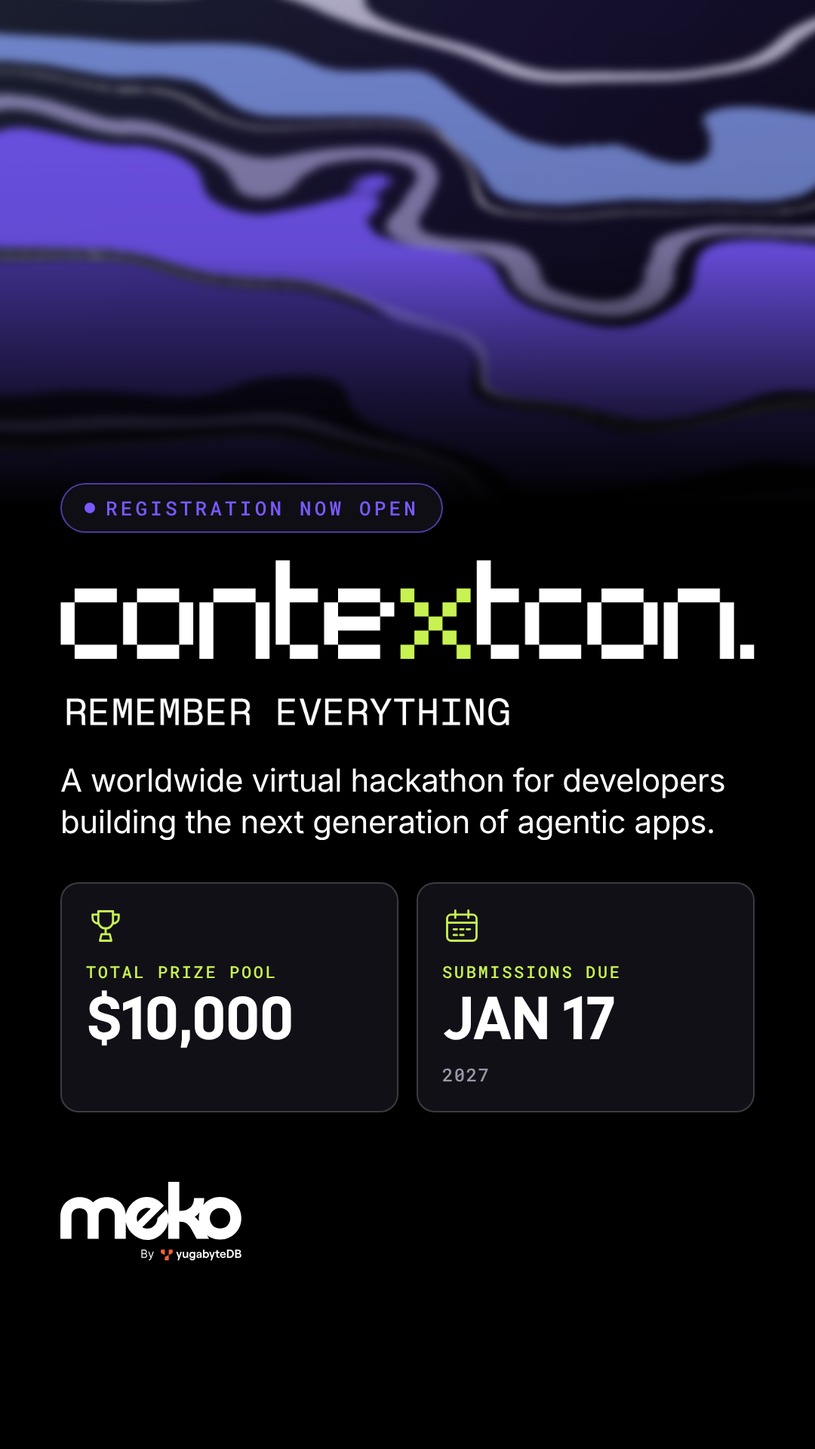
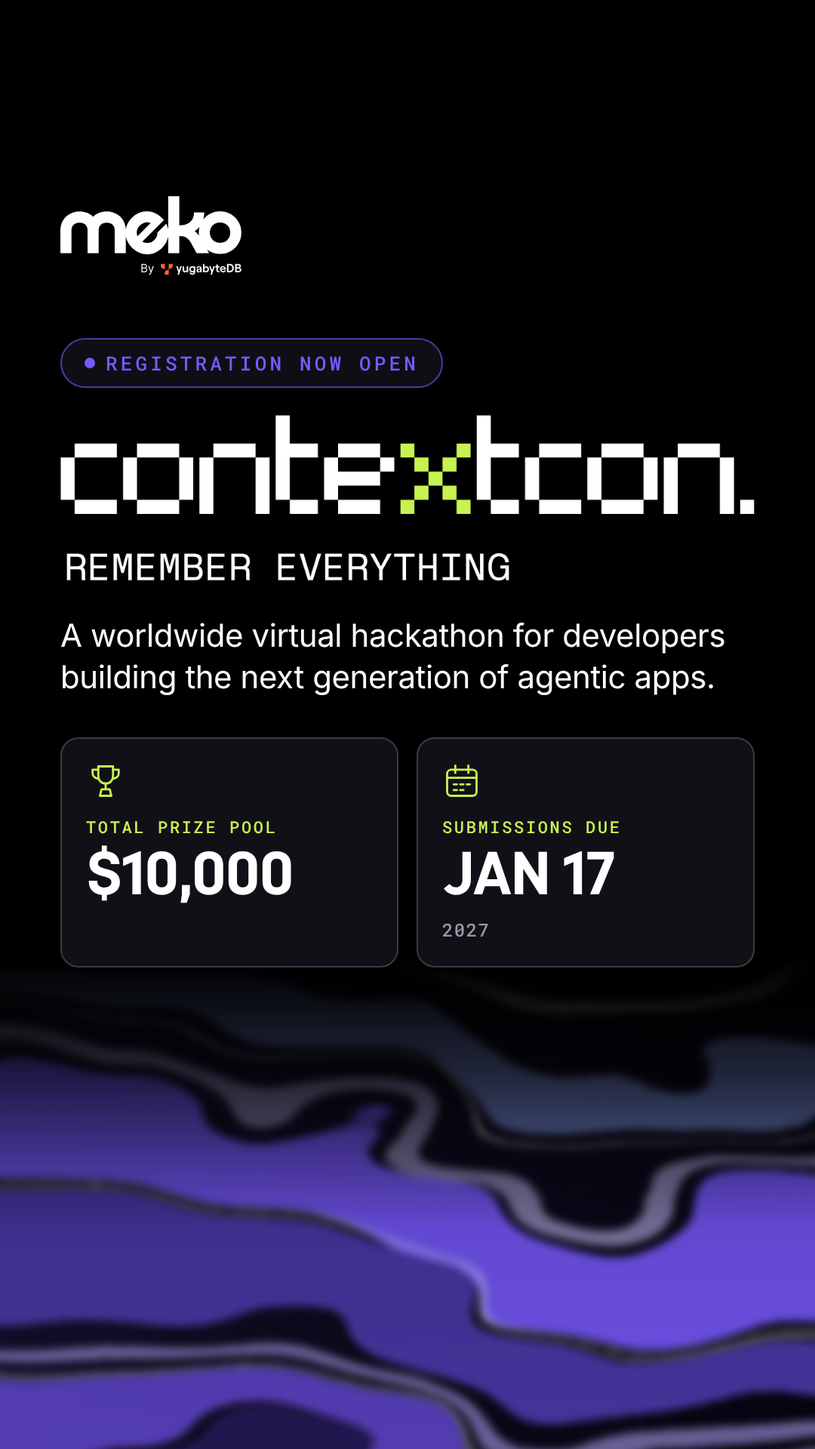
Instagram story: Meko lockup to top, content raised, texture to bottom
Claude-Session: https://claude.ai/code/session_011WvSfbuXTc2R9BKwTF66Kj

diff --git a/banners/contextcon-insta-story-1080x1920.html b/banners/contextcon-insta-story-1080x1920.html
@@ -19,10 +19,10 @@
 html,body{margin:0;background:var(--ground)}
 body{min-height:100vh;display:grid;place-items:center;-webkit-font-smoothing:antialiased}
 .story{position:relative;width:1080px;height:1920px;overflow:hidden;background:var(--ground);font-family:var(--sans);color:var(--text)}
-.tex{position:absolute;left:0;top:0;width:1080px;height:1120px;display:block}
+.tex{position:absolute;left:0;bottom:0;width:1080px;height:1120px;display:block}
 /* content sits inside Instagram's safe area (clear of top ~250px and bottom ~250px UI) */
-.content{position:absolute;left:80px;right:80px;top:640px;bottom:250px;display:flex;flex-direction:column;align-items:flex-start}
-.pill{margin:0;font-family:var(--mono);font-size:26px;font-weight:500;letter-spacing:.16em;text-transform:uppercase;color:var(--purple);
+.content{position:absolute;left:80px;right:80px;top:260px;bottom:250px;display:flex;flex-direction:column;align-items:flex-start}
+.pill{margin:84px 0 0;font-family:var(--mono);font-size:26px;font-weight:500;letter-spacing:.16em;text-transform:uppercase;color:var(--purple);
   background:rgba(18,16,23,.85);border:2px solid rgba(120,89,254,.6);border-radius:999px;padding:14px 30px;display:flex;align-items:center;gap:14px}
 .pill::before{content:'';width:14px;height:14px;border-radius:50%;background:var(--purple)}
 h1{margin:36px 0 0;width:920px}
@@ -36,13 +36,13 @@ h1 img{display:block;width:100%;height:auto}
 .stat.prize .v{font-size:84px}
 .stat.due .v{font-size:84px}
 .stat .y{display:block;margin-top:10px;font-family:var(--mono);font-size:24px;letter-spacing:.06em;color:var(--muted)}
-.meko{margin-top:auto;padding-top:48px;width:240px}
+.meko{width:240px}
 .meko svg{display:block;width:100%;height:auto}
 </style>
 </head>
 <body>
 <main class="story" aria-label="ContextCon: Remember everything — registration now open">
-  <svg class="tex" viewBox="700 -120 1300 1348" preserveAspectRatio="xMidYMid slice" aria-hidden="true">
+  <svg class="tex" viewBox="700 -640 1300 1348" preserveAspectRatio="xMidYMid slice" aria-hidden="true">
     <defs>
       <linearGradient id="g135" x1="0" y1="0" x2="1" y2="1">
         <stop offset="0" stop-color="#8ea8ff"/><stop offset=".35" stop-color="#7859fe"/>
@@ -54,15 +54,15 @@ h1 img{display:block;width:100%;height:auto}
         <feGaussianBlur in="d" stdDeviation="7"/>
       </filter>
       <linearGradient id="vfade" x1="0" y1="0" x2="0" y2="1">
-        <stop offset="0" stop-color="#fff" stop-opacity="1"/>
-        <stop offset=".3" stop-color="#fff" stop-opacity=".9"/>
-        <stop offset=".48" stop-color="#fff" stop-opacity=".3"/>
-        <stop offset=".6" stop-color="#fff" stop-opacity="0"/>
+        <stop offset=".42" stop-color="#fff" stop-opacity="0"/>
+        <stop offset=".56" stop-color="#fff" stop-opacity=".3"/>
+        <stop offset=".74" stop-color="#fff" stop-opacity=".9"/>
+        <stop offset="1" stop-color="#fff" stop-opacity="1"/>
       </linearGradient>
-      <mask id="vm"><rect x="700" y="-120" width="1300" height="1348" fill="url(#vfade)"/></mask>
+      <mask id="vm"><rect x="700" y="-640" width="1300" height="1348" fill="url(#vfade)"/></mask>
     </defs>
     <g mask="url(#vm)">
-      <rect x="700" y="-120" width="1300" height="1348" fill="url(#g135)" opacity=".18"/>
+      <rect x="700" y="-640" width="1300" height="1348" fill="url(#g135)" opacity=".18"/>
       <g filter="url(#marble)">
         <path d="M240 -240 C680 -130 1160 -290 1380 -100 S1760 0 2140 -80" stroke="#e9e6ff" stroke-width="30" fill="none" opacity="0.7"/>
 <path d="M240 -80 C680 30 1160 -130 1380 60 S1760 160 2140 80" stroke="#8ea8ff" stroke-width="90" fill="none" opacity="0.75"/>
@@ -83,6 +83,7 @@ h1 img{display:block;width:100%;height:auto}
   </svg>
 
   <div class="content">
+    <div class="meko"><svg xmlns="http://www.w3.org/2000/svg" role="img" aria-label="Meko by YugabyteDB" viewBox="0 0 943.4 409.61"><path fill="#ffffff" d="M 881.02 210.62 C 878.36 217.12 874.66 222.82 869.94 227.69 C 865.21 232.55 859.59 236.33 853.08 238.99 C 846.58 241.65 839.18 242.98 831.79 242.98 C 824.41 242.98 817.46 241.65 810.95 238.99 C 804.45 236.33 798.77 232.55 793.88 227.69 C 789.02 222.82 785.24 217.12 782.58 210.62 C 779.93 204.12 778.59 197.18 778.59 189.78 C 778.59 182.09 779.93 174.99 782.58 168.49 C 785.24 161.98 789.02 156.36 793.88 151.64 C 798.75 146.91 804.45 143.21 810.95 140.55 C 817.46 137.89 824.39 136.56 831.79 136.56 C 847.17 136.56 859.88 141.59 869.94 151.64 C 879.98 161.7 885.01 174.42 885.01 189.78 C 885.01 197.16 883.68 204.12 881.02 210.62 M 700.15 182.27 C 709.77 175.62 718.07 167.79 725.09 158.77 C 722.32 168.58 720.94 178.91 720.94 189.78 C 720.94 195.04 721.28 200.22 721.96 205.27 C 715.19 196.5 707.91 188.84 700.15 182.27 M 401.55 208.27 C 397.78 198.64 396.95 188.92 399.04 179.09 C 401.12 169.26 406.15 160.37 414.09 152.43 C 422.04 144.48 430.98 139.42 440.9 137.23 C 450.84 135.04 460.61 135.82 470.22 139.58 Z M 934.22 146.1 C 928.61 132.66 920.76 120.91 910.72 110.85 C 900.68 100.81 888.93 92.98 875.47 87.35 C 862.01 81.75 847.17 78.93 831.79 78.93 C 816.41 78.93 801.93 81.75 788.33 87.35 C 774.73 92.96 762.98 100.81 753.08 110.85 C 750.05 113.94 747.19 117.2 744.51 120.62 C 747.77 109.36 749.38 97.23 749.38 84.26 L 696.16 84.26 C 696.16 105.55 689.66 122.12 676.65 133.94 C 663.65 145.76 645.3 151.67 621.66 151.67 L 619.45 151.67 L 619.45 0 L 561.79 0 L 561.79 173 C 559.89 162.99 556.46 153.22 551.46 143.64 L 505.36 189.74 C 505.79 203.95 500.46 216.6 489.37 227.69 C 480.59 236.45 470.51 241.65 459.12 243.21 C 447.71 244.79 436.91 242.74 426.65 237.1 L 538.92 124.83 C 535.37 120.03 532.02 116.06 528.88 112.92 C 517.6 101.62 505.18 93.1 491.71 87.35 C 478.25 81.62 464.54 78.69 450.64 78.59 C 436.75 78.48 423.11 81.26 409.73 86.9 C 396.32 92.54 384 101.01 372.72 112.29 C 361.42 123.59 352.97 135.91 347.31 149.3 C 344.2 156.67 341.98 164.11 340.61 171.63 C 339.96 159.95 337.59 149.01 333.48 138.81 C 328.59 126.7 321.73 116.28 312.85 107.55 C 303.98 98.83 293.48 92.04 281.36 87.16 C 269.23 82.29 255.63 79.84 241.44 79.84 C 227.24 79.84 214.09 82.21 201.96 86.94 C 189.84 91.68 179.34 98.33 170.47 106.9 C 161.88 98.33 151.55 91.66 139.43 86.94 C 127.3 82.21 114.45 79.84 99.95 79.84 C 85.45 79.84 72.16 82.29 60.03 87.16 C 47.9 92.02 37.41 98.83 28.54 107.55 C 19.68 116.26 12.73 126.68 7.7 138.81 C 2.66 150.93 0.15 164.09 0.15 178.28 L 0.15 297.13 L 57.8 297.13 L 57.8 178.71 C 57.8 166.3 61.65 156.32 69.34 148.78 C 77.03 141.25 87.21 137.48 99.93 137.48 L 99.99 137.48 C 112.71 137.48 122.84 141.25 130.37 148.78 C 137.89 156.31 141.67 166.3 141.67 178.71 L 141.67 297.13 L 199.32 297.13 L 199.32 178.71 C 199.32 166.3 203.17 156.32 210.86 148.78 C 218.55 141.25 228.73 137.48 241.45 137.48 C 254.18 137.48 264.31 141.25 271.84 148.78 C 279.36 156.31 283.14 166.3 283.14 178.71 L 283.14 297.13 L 340.79 297.13 L 340.79 208.61 C 342.25 216.24 344.58 223.79 347.78 231.3 C 353.53 244.79 362.04 257.17 373.33 268.47 L 373.36 268.47 C 384.86 279.97 397.35 288.59 410.84 294.32 C 424.32 300.09 437.95 302.95 451.75 302.95 C 465.55 302.95 479.15 300.14 492.52 294.49 C 505.92 288.84 518.25 280.38 529.53 269.08 C 538.31 260.31 545.46 250.74 551.02 240.39 C 556.24 230.62 559.84 220.62 561.79 210.39 L 561.79 297.11 L 619.45 297.11 L 619.45 207.08 L 621.66 207.08 C 635.55 207.08 647.3 210.26 656.91 216.62 C 666.52 223 675.16 233.26 682.85 247.45 L 709.91 297.13 L 774.66 297.13 L 764.47 278.35 C 771.66 283.76 779.62 288.29 788.33 291.99 C 801.93 297.76 816.13 300.63 831.79 300.63 C 847.46 300.63 862.01 297.76 875.47 291.99 C 888.91 286.22 900.66 278.41 910.72 268.49 C 920.76 258.59 928.59 246.84 934.22 233.24 C 939.82 219.64 942.64 205.45 942.64 189.78 C 942.64 174.11 939.82 159.56 934.22 146.1 "/><path fill="#ffffff" d="M 926.7 389.04 L 918.33 389.04 L 918.33 376.73 L 926.7 376.73 C 932.21 376.73 934.87 379 934.87 382.93 C 934.87 386.88 932.21 389.04 926.7 389.04 M 918.33 359.5 L 926.3 359.5 C 930.73 359.5 932.9 361.38 932.9 364.72 C 932.9 368.07 930.73 369.84 926.4 369.84 L 918.33 369.84 Z M 935.26 372.6 C 937.92 371.22 940.48 368.17 940.48 364.04 C 940.48 356.95 934.87 353.01 926.99 353.01 L 910.26 353.01 L 910.26 396.12 L 927.59 396.12 C 936.64 396.12 942.64 391.4 942.64 383.32 C 942.64 377.62 939.3 374.07 935.27 372.59 Z M 935.26 372.6 "/><path fill="#ffffff" d="M 881.13 389.04 L 875.91 389.04 L 875.91 360 L 881.13 360 C 888.51 360 895.59 363.84 895.59 374.57 C 895.59 385.3 888.51 389.04 881.13 389.04 Z M 881.71 353.01 L 867.74 353.01 L 867.74 396.12 L 881.71 396.12 C 893.73 396.12 903.87 388.94 903.87 374.57 C 903.87 360.2 893.73 353.01 881.71 353.01 Z M 881.71 353.01 "/><path fill="#ffffff" d="M 846.67 370.24 C 851.2 370.24 853.85 373.19 854.25 377.13 L 838.89 377.13 C 839.68 372.5 842.44 370.24 846.67 370.24 Z M 854.54 385.79 C 853.76 388.74 851.2 390.32 847.26 390.32 C 842.54 390.32 839.29 387.17 838.7 382.15 L 861.63 382.15 C 861.76 381.3 861.82 380.45 861.82 379.59 C 861.82 372.11 857.1 364.53 846.67 364.53 C 836.23 364.53 831.41 372.3 831.41 380.47 C 831.41 388.64 837.12 396.62 847.26 396.62 C 854.94 396.62 860.74 392.39 861.92 385.79 Z M 854.54 385.79 "/><path fill="#ffffff" d="M 828.86 371.42 L 828.86 365.02 L 820.29 365.02 L 820.29 355.66 L 812.71 355.66 L 812.71 365.02 L 806.61 365.02 L 806.61 371.42 L 812.71 371.42 L 812.71 385.3 C 812.71 392.19 817.14 396.12 823.93 396.12 L 828.86 396.12 L 828.86 389.73 L 824.72 389.73 C 821.97 389.73 820.29 388.15 820.29 385 L 820.29 371.42 Z M 828.86 371.42 "/><path fill="#ffffff" d="M 797.16 365.02 L 790.07 386.38 L 782.79 365.02 L 775.11 365.02 L 786.43 396.12 L 782.1 408.72 L 789.28 408.72 L 794.11 394.64 L 804.93 365.02 L 797.16 365.02 Z M 797.16 365.02 "/><path fill="#ffffff" d="M 758.27 390.12 C 753.25 390.12 749.9 386.29 749.9 380.57 C 749.9 374.86 753.25 371.12 758.27 371.12 C 763.29 371.12 766.64 374.86 766.64 380.57 C 766.64 386.28 763.29 390.12 758.27 390.12 M 759.55 364.53 C 755.52 364.53 752.17 366.3 750.39 368.86 L 750.39 353.02 L 742.82 353.02 L 742.82 396.12 L 750.39 396.12 L 750.39 392.29 C 752.17 394.95 755.62 396.62 759.36 396.62 C 768.71 396.62 774.22 390.12 774.22 380.57 C 774.22 371.02 768.71 364.53 759.55 364.53 Z M 759.55 364.53 "/><path fill="#ffffff" d="M 728.64 383.04 C 728.64 387.66 725.89 391 721.16 391 C 718.31 391 716.34 389.43 716.34 386.97 C 716.34 384.31 718.51 382.54 721.66 382.54 L 728.64 382.54 Z M 722.64 364.53 C 714.57 364.53 709.35 369.35 708.96 375.55 L 715.75 375.55 C 715.85 372.8 718.31 370.24 722.35 370.24 C 726.38 370.24 728.64 372.41 728.64 375.45 C 728.64 376.64 727.96 377.52 726.38 377.52 L 720.67 377.52 C 713.69 377.52 708.96 381.26 708.96 387.37 C 708.96 392.68 713.19 396.62 719.3 396.62 C 723.82 396.62 727.36 394.55 728.64 391.5 L 728.64 396.12 L 736.13 396.12 L 736.13 376.14 C 736.13 369.16 730.52 364.53 722.64 364.53 Z M 722.64 364.53 "/><path fill="#ffffff" d="M 658.36 365.02 L 658.36 382.05 C 658.36 386.58 655.31 389.92 651.07 389.92 C 646.84 389.92 644.58 386.97 644.58 382.74 L 644.58 365.02 L 637.1 365.02 L 637.1 384.31 C 637.1 391.59 641.43 396.61 648.62 396.61 C 653.04 396.61 656.59 394.75 658.36 391.3 L 658.36 396.12 L 665.95 396.12 L 665.95 365.02 Z M 658.36 365.02 "/><path fill="#ffffff" d="M 625.38 365.02 L 618.2 386.38 L 611.02 365.02 L 603.34 365.02 L 614.65 396.12 L 610.32 408.72 L 617.51 408.72 L 622.33 394.64 L 633.16 365.02 Z M 625.38 365.02 "/><path fill="#ffffff" d="M 687.3 390.12 C 682.28 390.12 678.93 386.28 678.93 380.57 C 678.93 374.86 682.28 371.12 687.3 371.12 C 692.32 371.12 695.77 374.86 695.77 380.57 C 695.77 386.27 692.42 390.12 687.3 390.12 M 695.18 365.02 L 695.18 368.56 C 693.41 366.2 690.06 364.53 686.12 364.53 C 676.87 364.53 671.45 371.12 671.45 380.57 C 671.45 390.02 676.87 396.62 686.22 396.62 C 690.75 396.62 693.7 395.04 695.27 392.68 L 695.27 393.18 C 695.27 398.98 693.41 402.92 687.3 402.92 C 683.46 402.92 681.5 401.35 680.21 398.29 L 672.64 398.29 C 674.31 405.87 679.43 409.22 687.3 409.22 C 697.14 409.22 702.46 403.31 702.46 393.18 L 702.76 365.02 L 695.18 365.02 Z M 695.18 365.02 "/><path fill="#ff5f3b" d="M 539.94 353.01 C 541.34 353.01 542.05 353.01 542.59 353.28 C 543.05 353.52 543.44 353.91 543.68 354.38 C 543.95 354.91 543.95 355.62 543.95 357.02 L 543.95 374.68 C 543.95 376.77 543.95 377.82 543.51 378.46 C 543.12 379.02 542.53 379.41 541.86 379.52 C 541.09 379.64 540.14 379.2 538.24 378.32 L 533.3 376.01 C 529.73 374.35 527.94 373.52 526.63 372.23 C 525.48 371.09 524.6 369.71 524.05 368.18 C 523.45 366.45 523.45 364.48 523.45 360.55 L 523.45 357.02 C 523.45 355.62 523.45 354.91 523.72 354.38 C 523.96 353.91 524.34 353.52 524.81 353.28 C 525.35 353.01 526.05 353.01 527.46 353.01 Z M 539.94 353.01 "/><path fill="#ff5f3b" d="M 580.96 353.01 C 582.37 353.01 583.07 353.01 583.61 353.28 C 584.08 353.52 584.46 353.91 584.71 354.38 C 584.98 354.91 584.98 355.62 584.98 357.02 L 584.98 360.55 C 584.98 364.49 584.98 366.46 584.37 368.18 C 583.83 369.71 582.95 371.1 581.79 372.23 C 580.48 373.52 578.7 374.35 575.13 376.01 L 564.47 380.98 L 564.47 357.02 C 564.47 355.62 564.47 354.91 564.74 354.38 C 564.98 353.91 565.37 353.52 565.84 353.28 C 566.38 353.01 567.08 353.01 568.48 353.01 Z M 580.96 353.01 "/><path fill="#ff5f3b" d="M 564.47 380.98 L 564.47 404.95 C 564.47 406.35 564.47 407.05 564.2 407.59 C 563.95 408.06 563.57 408.45 563.1 408.69 C 562.56 408.96 561.86 408.96 560.45 408.96 L 547.97 408.96 C 546.57 408.96 545.86 408.96 545.33 408.69 C 544.86 408.45 544.47 408.06 544.23 407.59 C 543.96 407.05 543.96 406.35 543.96 404.95 L 543.96 401.42 C 543.96 397.48 543.96 395.51 544.57 393.78 C 545.11 392.25 545.99 390.87 547.15 389.73 C 548.46 388.45 550.24 387.62 553.81 385.95 Z M 564.47 380.98 "/><path fill="#ffffff" d="M 427.5 391.49 L 437.88 391.49 C 441.29 391.49 443.71 390.83 445.16 389.5 C 446.6 388.17 447.32 386.56 447.32 384.66 C 447.32 383.2 446.95 381.85 446.2 380.61 C 445.46 379.36 444.39 378.36 443.02 377.61 C 441.64 376.86 440.01 376.48 438.13 376.48 L 427.5 376.48 Z M 427.5 371.93 L 437.2 371.93 C 438.77 371.93 440.2 371.62 441.47 371 C 442.74 370.38 443.75 369.52 444.5 368.39 C 445.26 367.27 445.63 365.95 445.63 364.43 C 445.63 362.53 444.97 360.92 443.65 359.59 C 442.33 358.26 440.23 357.6 437.37 357.6 L 427.5 357.6 Z M 422.28 396.13 L 422.28 352.96 L 437.37 352.96 C 440.38 352.96 442.86 353.48 444.81 354.51 C 446.76 355.54 448.22 356.93 449.17 358.66 C 450.13 360.4 450.61 362.32 450.61 364.43 C 450.61 366.28 450.28 367.81 449.62 369.02 C 448.97 370.23 448.12 371.19 447.05 371.89 C 446 372.59 444.84 373.11 443.61 373.45 L 443.61 373.87 C 444.93 373.96 446.26 374.42 447.59 375.26 C 448.93 376.11 450.04 377.31 450.95 378.89 C 451.84 380.46 452.29 382.39 452.29 384.66 C 452.29 386.82 451.8 388.77 450.82 390.5 C 449.83 392.23 448.28 393.6 446.16 394.61 C 444.04 395.62 441.28 396.13 437.88 396.13 Z M 422.28 396.13 "/><path fill="#ffffff" d="M 463.42 408.19 C 462.58 408.19 461.83 408.12 461.17 407.98 C 460.5 407.85 460.05 407.72 459.8 407.59 L 461.06 403.21 C 462.88 403.68 464.38 403.66 465.59 403.18 C 466.8 402.7 467.85 401.24 468.73 398.83 L 469.66 396.3 L 457.69 363.75 L 463.09 363.75 L 472.02 389.55 L 472.36 389.55 L 481.3 363.75 L 486.73 363.84 L 472.95 400.85 C 472.33 402.5 471.57 403.86 470.65 404.95 C 469.74 406.04 468.68 406.85 467.48 407.38 C 466.28 407.92 464.93 408.19 463.42 408.19 "/></svg></div>
     <p class="pill">Registration now open</p>
     <h1><img src="assets/contextcon-logo-white.png" alt="ContextCon: Remember everything"></h1>
     <p class="lede">A worldwide virtual hackathon for developers building the next generation of agentic apps.</p>
@@ -90,7 +91,6 @@ h1 img{display:block;width:100%;height:auto}
       <div class="stat prize"><svg viewBox="0 0 48 48" aria-hidden="true" fill="none" stroke="#c7f252" stroke-width="2.6" stroke-linecap="round" stroke-linejoin="round"><path d="M15 6h18v12a9 9 0 0 1-18 0z"/><path d="M15 10H8v4a7 7 0 0 0 7 7"/><path d="M33 10h7v4a7 7 0 0 1-7 7"/><path d="M24 27v7"/><path d="M17 42h14l-2-8H19z"/></svg><span class="k">Total prize pool</span><span class="v">$10,000</span><span class="y">&nbsp;</span></div>
       <div class="stat due"><svg viewBox="0 0 48 48" aria-hidden="true" fill="none" stroke="#c7f252" stroke-width="2.6" stroke-linecap="round" stroke-linejoin="round"><rect x="6" y="10" width="36" height="32" rx="5"/><path d="M6 20h36M16 5v9M32 5v9"/><path d="M14 28h4M22 28h4M30 28h4M14 35h4M22 35h4"/></svg><span class="k">Submissions due</span><span class="v">Jan 17</span><span class="y">2027</span></div>
     </div>
-    <div class="meko"><svg xmlns="http://www.w3.org/2000/svg" role="img" aria-label="Meko by YugabyteDB" viewBox="0 0 943.4 409.61"><path fill="#ffffff" d="M 881.02 210.62 C 878.36 217.12 874.66 222.82 869.94 227.69 C 865.21 232.55 859.59 236.33 853.08 238.99 C 846.58 241.65 839.18 242.98 831.79 242.98 C 824.41 242.98 817.46 241.65 810.95 238.99 C 804.45 236.33 798.77 232.55 793.88 227.69 C 789.02 222.82 785.24 217.12 782.58 210.62 C 779.93 204.12 778.59 197.18 778.59 189.78 C 778.59 182.09 779.93 174.99 782.58 168.49 C 785.24 161.98 789.02 156.36 793.88 151.64 C 798.75 146.91 804.45 143.21 810.95 140.55 C 817.46 137.89 824.39 136.56 831.79 136.56 C 847.17 136.56 859.88 141.59 869.94 151.64 C 879.98 161.7 885.01 174.42 885.01 189.78 C 885.01 197.16 883.68 204.12 881.02 210.62 M 700.15 182.27 C 709.77 175.62 718.07 167.79 725.09 158.77 C 722.32 168.58 720.94 178.91 720.94 189.78 C 720.94 195.04 721.28 200.22 721.96 205.27 C 715.19 196.5 707.91 188.84 700.15 182.27 M 401.55 208.27 C 397.78 198.64 396.95 188.92 399.04 179.09 C 401.12 169.26 406.15 160.37 414.09 152.43 C 422.04 144.48 430.98 139.42 440.9 137.23 C 450.84 135.04 460.61 135.82 470.22 139.58 Z M 934.22 146.1 C 928.61 132.66 920.76 120.91 910.72 110.85 C 900.68 100.81 888.93 92.98 875.47 87.35 C 862.01 81.75 847.17 78.93 831.79 78.93 C 816.41 78.93 801.93 81.75 788.33 87.35 C 774.73 92.96 762.98 100.81 753.08 110.85 C 750.05 113.94 747.19 117.2 744.51 120.62 C 747.77 109.36 749.38 97.23 749.38 84.26 L 696.16 84.26 C 696.16 105.55 689.66 122.12 676.65 133.94 C 663.65 145.76 645.3 151.67 621.66 151.67 L 619.45 151.67 L 619.45 0 L 561.79 0 L 561.79 173 C 559.89 162.99 556.46 153.22 551.46 143.64 L 505.36 189.74 C 505.79 203.95 500.46 216.6 489.37 227.69 C 480.59 236.45 470.51 241.65 459.12 243.21 C 447.71 244.79 436.91 242.74 426.65 237.1 L 538.92 124.83 C 535.37 120.03 532.02 116.06 528.88 112.92 C 517.6 101.62 505.18 93.1 491.71 87.35 C 478.25 81.62 464.54 78.69 450.64 78.59 C 436.75 78.48 423.11 81.26 409.73 86.9 C 396.32 92.54 384 101.01 372.72 112.29 C 361.42 123.59 352.97 135.91 347.31 149.3 C 344.2 156.67 341.98 164.11 340.61 171.63 C 339.96 159.95 337.59 149.01 333.48 138.81 C 328.59 126.7 321.73 116.28 312.85 107.55 C 303.98 98.83 293.48 92.04 281.36 87.16 C 269.23 82.29 255.63 79.84 241.44 79.84 C 227.24 79.84 214.09 82.21 201.96 86.94 C 189.84 91.68 179.34 98.33 170.47 106.9 C 161.88 98.33 151.55 91.66 139.43 86.94 C 127.3 82.21 114.45 79.84 99.95 79.84 C 85.45 79.84 72.16 82.29 60.03 87.16 C 47.9 92.02 37.41 98.83 28.54 107.55 C 19.68 116.26 12.73 126.68 7.7 138.81 C 2.66 150.93 0.15 164.09 0.15 178.28 L 0.15 297.13 L 57.8 297.13 L 57.8 178.71 C 57.8 166.3 61.65 156.32 69.34 148.78 C 77.03 141.25 87.21 137.48 99.93 137.48 L 99.99 137.48 C 112.71 137.48 122.84 141.25 130.37 148.78 C 137.89 156.31 141.67 166.3 141.67 178.71 L 141.67 297.13 L 199.32 297.13 L 199.32 178.71 C 199.32 166.3 203.17 156.32 210.86 148.78 C 218.55 141.25 228.73 137.48 241.45 137.48 C 254.18 137.48 264.31 141.25 271.84 148.78 C 279.36 156.31 283.14 166.3 283.14 178.71 L 283.14 297.13 L 340.79 297.13 L 340.79 208.61 C 342.25 216.24 344.58 223.79 347.78 231.3 C 353.53 244.79 362.04 257.17 373.33 268.47 L 373.36 268.47 C 384.86 279.97 397.35 288.59 410.84 294.32 C 424.32 300.09 437.95 302.95 451.75 302.95 C 465.55 302.95 479.15 300.14 492.52 294.49 C 505.92 288.84 518.25 280.38 529.53 269.08 C 538.31 260.31 545.46 250.74 551.02 240.39 C 556.24 230.62 559.84 220.62 561.79 210.39 L 561.79 297.11 L 619.45 297.11 L 619.45 207.08 L 621.66 207.08 C 635.55 207.08 647.3 210.26 656.91 216.62 C 666.52 223 675.16 233.26 682.85 247.45 L 709.91 297.13 L 774.66 297.13 L 764.47 278.35 C 771.66 283.76 779.62 288.29 788.33 291.99 C 801.93 297.76 816.13 300.63 831.79 300.63 C 847.46 300.63 862.01 297.76 875.47 291.99 C 888.91 286.22 900.66 278.41 910.72 268.49 C 920.76 258.59 928.59 246.84 934.22 233.24 C 939.82 219.64 942.64 205.45 942.64 189.78 C 942.64 174.11 939.82 159.56 934.22 146.1 "/><path fill="#ffffff" d="M 926.7 389.04 L 918.33 389.04 L 918.33 376.73 L 926.7 376.73 C 932.21 376.73 934.87 379 934.87 382.93 C 934.87 386.88 932.21 389.04 926.7 389.04 M 918.33 359.5 L 926.3 359.5 C 930.73 359.5 932.9 361.38 932.9 364.72 C 932.9 368.07 930.73 369.84 926.4 369.84 L 918.33 369.84 Z M 935.26 372.6 C 937.92 371.22 940.48 368.17 940.48 364.04 C 940.48 356.95 934.87 353.01 926.99 353.01 L 910.26 353.01 L 910.26 396.12 L 927.59 396.12 C 936.64 396.12 942.64 391.4 942.64 383.32 C 942.64 377.62 939.3 374.07 935.27 372.59 Z M 935.26 372.6 "/><path fill="#ffffff" d="M 881.13 389.04 L 875.91 389.04 L 875.91 360 L 881.13 360 C 888.51 360 895.59 363.84 895.59 374.57 C 895.59 385.3 888.51 389.04 881.13 389.04 Z M 881.71 353.01 L 867.74 353.01 L 867.74 396.12 L 881.71 396.12 C 893.73 396.12 903.87 388.94 903.87 374.57 C 903.87 360.2 893.73 353.01 881.71 353.01 Z M 881.71 353.01 "/><path fill="#ffffff" d="M 846.67 370.24 C 851.2 370.24 853.85 373.19 854.25 377.13 L 838.89 377.13 C 839.68 372.5 842.44 370.24 846.67 370.24 Z M 854.54 385.79 C 853.76 388.74 851.2 390.32 847.26 390.32 C 842.54 390.32 839.29 387.17 838.7 382.15 L 861.63 382.15 C 861.76 381.3 861.82 380.45 861.82 379.59 C 861.82 372.11 857.1 364.53 846.67 364.53 C 836.23 364.53 831.41 372.3 831.41 380.47 C 831.41 388.64 837.12 396.62 847.26 396.62 C 854.94 396.62 860.74 392.39 861.92 385.79 Z M 854.54 385.79 "/><path fill="#ffffff" d="M 828.86 371.42 L 828.86 365.02 L 820.29 365.02 L 820.29 355.66 L 812.71 355.66 L 812.71 365.02 L 806.61 365.02 L 806.61 371.42 L 812.71 371.42 L 812.71 385.3 C 812.71 392.19 817.14 396.12 823.93 396.12 L 828.86 396.12 L 828.86 389.73 L 824.72 389.73 C 821.97 389.73 820.29 388.15 820.29 385 L 820.29 371.42 Z M 828.86 371.42 "/><path fill="#ffffff" d="M 797.16 365.02 L 790.07 386.38 L 782.79 365.02 L 775.11 365.02 L 786.43 396.12 L 782.1 408.72 L 789.28 408.72 L 794.11 394.64 L 804.93 365.02 L 797.16 365.02 Z M 797.16 365.02 "/><path fill="#ffffff" d="M 758.27 390.12 C 753.25 390.12 749.9 386.29 749.9 380.57 C 749.9 374.86 753.25 371.12 758.27 371.12 C 763.29 371.12 766.64 374.86 766.64 380.57 C 766.64 386.28 763.29 390.12 758.27 390.12 M 759.55 364.53 C 755.52 364.53 752.17 366.3 750.39 368.86 L 750.39 353.02 L 742.82 353.02 L 742.82 396.12 L 750.39 396.12 L 750.39 392.29 C 752.17 394.95 755.62 396.62 759.36 396.62 C 768.71 396.62 774.22 390.12 774.22 380.57 C 774.22 371.02 768.71 364.53 759.55 364.53 Z M 759.55 364.53 "/><path fill="#ffffff" d="M 728.64 383.04 C 728.64 387.66 725.89 391 721.16 391 C 718.31 391 716.34 389.43 716.34 386.97 C 716.34 384.31 718.51 382.54 721.66 382.54 L 728.64 382.54 Z M 722.64 364.53 C 714.57 364.53 709.35 369.35 708.96 375.55 L 715.75 375.55 C 715.85 372.8 718.31 370.24 722.35 370.24 C 726.38 370.24 728.64 372.41 728.64 375.45 C 728.64 376.64 727.96 377.52 726.38 377.52 L 720.67 377.52 C 713.69 377.52 708.96 381.26 708.96 387.37 C 708.96 392.68 713.19 396.62 719.3 396.62 C 723.82 396.62 727.36 394.55 728.64 391.5 L 728.64 396.12 L 736.13 396.12 L 736.13 376.14 C 736.13 369.16 730.52 364.53 722.64 364.53 Z M 722.64 364.53 "/><path fill="#ffffff" d="M 658.36 365.02 L 658.36 382.05 C 658.36 386.58 655.31 389.92 651.07 389.92 C 646.84 389.92 644.58 386.97 644.58 382.74 L 644.58 365.02 L 637.1 365.02 L 637.1 384.31 C 637.1 391.59 641.43 396.61 648.62 396.61 C 653.04 396.61 656.59 394.75 658.36 391.3 L 658.36 396.12 L 665.95 396.12 L 665.95 365.02 Z M 658.36 365.02 "/><path fill="#ffffff" d="M 625.38 365.02 L 618.2 386.38 L 611.02 365.02 L 603.34 365.02 L 614.65 396.12 L 610.32 408.72 L 617.51 408.72 L 622.33 394.64 L 633.16 365.02 Z M 625.38 365.02 "/><path fill="#ffffff" d="M 687.3 390.12 C 682.28 390.12 678.93 386.28 678.93 380.57 C 678.93 374.86 682.28 371.12 687.3 371.12 C 692.32 371.12 695.77 374.86 695.77 380.57 C 695.77 386.27 692.42 390.12 687.3 390.12 M 695.18 365.02 L 695.18 368.56 C 693.41 366.2 690.06 364.53 686.12 364.53 C 676.87 364.53 671.45 371.12 671.45 380.57 C 671.45 390.02 676.87 396.62 686.22 396.62 C 690.75 396.62 693.7 395.04 695.27 392.68 L 695.27 393.18 C 695.27 398.98 693.41 402.92 687.3 402.92 C 683.46 402.92 681.5 401.35 680.21 398.29 L 672.64 398.29 C 674.31 405.87 679.43 409.22 687.3 409.22 C 697.14 409.22 702.46 403.31 702.46 393.18 L 702.76 365.02 L 695.18 365.02 Z M 695.18 365.02 "/><path fill="#ff5f3b" d="M 539.94 353.01 C 541.34 353.01 542.05 353.01 542.59 353.28 C 543.05 353.52 543.44 353.91 543.68 354.38 C 543.95 354.91 543.95 355.62 543.95 357.02 L 543.95 374.68 C 543.95 376.77 543.95 377.82 543.51 378.46 C 543.12 379.02 542.53 379.41 541.86 379.52 C 541.09 379.64 540.14 379.2 538.24 378.32 L 533.3 376.01 C 529.73 374.35 527.94 373.52 526.63 372.23 C 525.48 371.09 524.6 369.71 524.05 368.18 C 523.45 366.45 523.45 364.48 523.45 360.55 L 523.45 357.02 C 523.45 355.62 523.45 354.91 523.72 354.38 C 523.96 353.91 524.34 353.52 524.81 353.28 C 525.35 353.01 526.05 353.01 527.46 353.01 Z M 539.94 353.01 "/><path fill="#ff5f3b" d="M 580.96 353.01 C 582.37 353.01 583.07 353.01 583.61 353.28 C 584.08 353.52 584.46 353.91 584.71 354.38 C 584.98 354.91 584.98 355.62 584.98 357.02 L 584.98 360.55 C 584.98 364.49 584.98 366.46 584.37 368.18 C 583.83 369.71 582.95 371.1 581.79 372.23 C 580.48 373.52 578.7 374.35 575.13 376.01 L 564.47 380.98 L 564.47 357.02 C 564.47 355.62 564.47 354.91 564.74 354.38 C 564.98 353.91 565.37 353.52 565.84 353.28 C 566.38 353.01 567.08 353.01 568.48 353.01 Z M 580.96 353.01 "/><path fill="#ff5f3b" d="M 564.47 380.98 L 564.47 404.95 C 564.47 406.35 564.47 407.05 564.2 407.59 C 563.95 408.06 563.57 408.45 563.1 408.69 C 562.56 408.96 561.86 408.96 560.45 408.96 L 547.97 408.96 C 546.57 408.96 545.86 408.96 545.33 408.69 C 544.86 408.45 544.47 408.06 544.23 407.59 C 543.96 407.05 543.96 406.35 543.96 404.95 L 543.96 401.42 C 543.96 397.48 543.96 395.51 544.57 393.78 C 545.11 392.25 545.99 390.87 547.15 389.73 C 548.46 388.45 550.24 387.62 553.81 385.95 Z M 564.47 380.98 "/><path fill="#ffffff" d="M 427.5 391.49 L 437.88 391.49 C 441.29 391.49 443.71 390.83 445.16 389.5 C 446.6 388.17 447.32 386.56 447.32 384.66 C 447.32 383.2 446.95 381.85 446.2 380.61 C 445.46 379.36 444.39 378.36 443.02 377.61 C 441.64 376.86 440.01 376.48 438.13 376.48 L 427.5 376.48 Z M 427.5 371.93 L 437.2 371.93 C 438.77 371.93 440.2 371.62 441.47 371 C 442.74 370.38 443.75 369.52 444.5 368.39 C 445.26 367.27 445.63 365.95 445.63 364.43 C 445.63 362.53 444.97 360.92 443.65 359.59 C 442.33 358.26 440.23 357.6 437.37 357.6 L 427.5 357.6 Z M 422.28 396.13 L 422.28 352.96 L 437.37 352.96 C 440.38 352.96 442.86 353.48 444.81 354.51 C 446.76 355.54 448.22 356.93 449.17 358.66 C 450.13 360.4 450.61 362.32 450.61 364.43 C 450.61 366.28 450.28 367.81 449.62 369.02 C 448.97 370.23 448.12 371.19 447.05 371.89 C 446 372.59 444.84 373.11 443.61 373.45 L 443.61 373.87 C 444.93 373.96 446.26 374.42 447.59 375.26 C 448.93 376.11 450.04 377.31 450.95 378.89 C 451.84 380.46 452.29 382.39 452.29 384.66 C 452.29 386.82 451.8 388.77 450.82 390.5 C 449.83 392.23 448.28 393.6 446.16 394.61 C 444.04 395.62 441.28 396.13 437.88 396.13 Z M 422.28 396.13 "/><path fill="#ffffff" d="M 463.42 408.19 C 462.58 408.19 461.83 408.12 461.17 407.98 C 460.5 407.85 460.05 407.72 459.8 407.59 L 461.06 403.21 C 462.88 403.68 464.38 403.66 465.59 403.18 C 466.8 402.7 467.85 401.24 468.73 398.83 L 469.66 396.3 L 457.69 363.75 L 463.09 363.75 L 472.02 389.55 L 472.36 389.55 L 481.3 363.75 L 486.73 363.84 L 472.95 400.85 C 472.33 402.5 471.57 403.86 470.65 404.95 C 469.74 406.04 468.68 406.85 467.48 407.38 C 466.28 407.92 464.93 408.19 463.42 408.19 "/></svg></div>
   </div>
 </main>
 </body>
